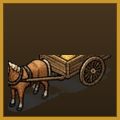
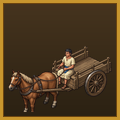
Title of Liberty: the horse cart has a driver, and shows its load (#69)
* Title of Liberty: reference picture for the cart edits (request 010)

Claude-Session: https://claude.ai/code/session_01Q4ES8mgC6R6KD4i9kHrmBw

* Title of Liberty: the horse cart has a driver, and shows its load

Five new pictures of the cart, made with Gemini through the n8n backup
(request 010): the driver on the board with an empty bed, the bed heaped
with grain, stacked with timber, loaded with quarried stone (for the stone
that comes next), and the driver on the ground loading a sack. The game
picks the picture by what the cart carries and whether it is working at a
field or forest. The pictures are kept at three times their size on screen
and scaled alike, so the cart stays one size; it is now about 60 px long.
The Build button's cart picture is remade from the new cart. The temporary
reference picture under art/incoming is removed again.

Claude-Session: https://claude.ai/code/session_01Q4ES8mgC6R6KD4i9kHrmBw

---------

Changed region(s): [[0.05, 0.375, 0.925, 0.95]]

diff --git a/liberty/ui.js b/liberty/ui.js
@@ -29,6 +29,10 @@ const IMG = {
   stripling: new Image(),
   lamanite: new Image(),
   cart: new Image(),
+  cartGrain: new Image(),                          // the cart, laden: a picture per load, and one loading
+  cartTimber: new Image(),
+  cartStone: new Image(),
+  cartWork: new Image(),
   unit: new Image(),
   stronghold: new Image(),
   barracks: new Image(),
@@ -62,7 +66,11 @@ IMG.lamanCaptain.src = 'assets/lamanite_captain.png?v=1';
 IMG.zerahemnah.src = 'assets/zerahemnah.png?v=2';
 IMG.stripling.src = 'assets/stripling.png?v=13';
 IMG.lamanite.src = 'assets/lamanite.png?v=13';
-IMG.cart.src = 'assets/cart.png?v=13';
+IMG.cart.src = 'assets/cart.png?v=14';
+IMG.cartGrain.src = 'assets/cart_grain.png?v=1';
+IMG.cartTimber.src = 'assets/cart_timber.png?v=1';
+IMG.cartStone.src = 'assets/cart_stone.png?v=1';
+IMG.cartWork.src = 'assets/cart_loading.png?v=1';
 IMG.unit.src = 'assets/spearman.png?v=13';
 IMG.stronghold.src = 'assets/stronghold.png?v=13';
 IMG.barracks.src = 'assets/barracks.png?v=13';
@@ -1129,8 +1137,12 @@ IMG.farm.src = 'assets/farm.png?v=13';
       uImg = IMG.lamanite;
       uw = 41; uh = 44; uox = 19; uoy = 43;
     } else if (u.type === 'cart') {
-      uImg = IMG.cart;
-      uw = 47; uh = 28; uox = 23; uoy = 22;
+      // The cart and its driver: loading at a field, forest or rock face; laden on the way home; else empty.
+      // The pictures are kept at three times their size on screen, all scaled alike, so the cart stays one size.
+      const load = u.carry && u.carry.amt > 0 ? u.carry.type : null;
+      uImg = working ? IMG.cartWork : load === 'grain' ? IMG.cartGrain : load === 'timber' ? IMG.cartTimber : load === 'stone' ? IMG.cartStone : IMG.cart;
+      if (!(uImg.complete && uImg.naturalWidth)) uImg = IMG.cart;
+      uw = uImg.naturalWidth / 3; uh = uImg.naturalHeight / 3; uox = uw / 2; uoy = uh - 1;
     } else if (u.type === 'worker') {
       uImg = IMG.worker;                         // 76 × 150, cropped to the figure: feet on the ground
       uw = 20; uh = 40; uox = 14; uoy = 39;
@@ -1867,7 +1879,7 @@ IMG.farm.src = 'assets/farm.png?v=13';
     'train:javelin': 'assets/cameo_javelin.png?v=1',
     'train:stripling': 'assets/cameo_stripling.png?v=10',
     'train:moroni': 'assets/cameo_moroni.png?v=10',
-    'train:cart': 'assets/cameo_cart.png?v=1',
+    'train:cart': 'assets/cameo_cart.png?v=2',
     'build:farm': 'assets/cameo_farm.png?v=1',
     'build:granary': 'assets/cameo_granary.png?v=1',
     'build:storehouse': 'assets/cameo_storehouse.png?v=1',

diff --git a/liberty/index.html b/liberty/index.html
@@ -338,6 +338,6 @@
 <script src="sim.js?v=17"></script>
 <script src="missions.js?v=18"></script>
 <script src="scripture.js?v=15"></script>
-<script src="ui.js?v=31"></script>
+<script src="ui.js?v=32"></script>
 </body>
 </html>

diff --git a/liberty/art/requests/010-carts.md b/liberty/art/requests/010-carts.md
@@ -1,0 +1,46 @@
+# 010 · The horse cart: a driver, a picture per load, and loading
+
+**Status: done.** Five pictures made with Gemini through Blake's n8n backup,
+5 billed to the Merit3D Gemini account, all usable on the first try.
+
+## What it's for
+
+After the Red Alert rules (pull request #68) the carts are the harvesters:
+they find a field or a forest on their own, fill up and haul the load home.
+Blake, after a round on his Pixel, asked for new cart art, with a driver who
+"drives the cart and gets out and gathers". The old `cart.png` was a small
+horse and hay cart with nobody on it, and it looked the same empty or full.
+
+## The pictures
+
+All five are the same brown horse and two-wheeled railed cart, going toward
+the viewer's lower left, light from the upper left, with a Nephite driver in
+a cream tunic and blue sash. The first was edited from the old `cart.png`;
+the other four were edited from the first (pushed to the branch as a padded
+magenta PNG under `liberty/art/incoming/`, which the n8n workflow fetches,
+and removed again before the pull request).
+
+- **`cart.png`**: the driver on the front board with the reins, the bed
+  empty. Also the Build button (`cameo_cart.png`).
+- **`cart_grain.png`**: the bed heaped with sheaves of grain and baskets of
+  yellow maize.
+- **`cart_timber.png`**: a roped stack of cut logs and split timbers.
+- **`cart_stone.png`**: grey-white quarried limestone blocks and rubble, for
+  the stone that comes next.
+- **`cart_loading.png`**: the cart standing, the driver on the ground at the
+  back lifting a sack into the bed. Shown while a cart is working at a field,
+  forest or (later) rock face.
+
+Gemini returned the four edits at 1257 × 832 for a 1420 × 940 reference, so
+they are scaled by 1420 ⁄ 1257 more than the first to keep the cart one size.
+All are kept at three times their size on screen (about 180 px wide) and the
+game draws them at a third, anchored at the bottom centre. On screen the cart
+is now about 60 px long, up from 47, a little under a horse-and-cart's real
+length next to a 40 px worker.
+
+## In the game
+
+`drawUnit` picks the picture: the loading pose while the cart's gather order
+is in its `work` phase, else the laden picture that matches what it carries,
+else the empty cart. If a picture hasn't loaded yet it falls back to the
+empty cart.
